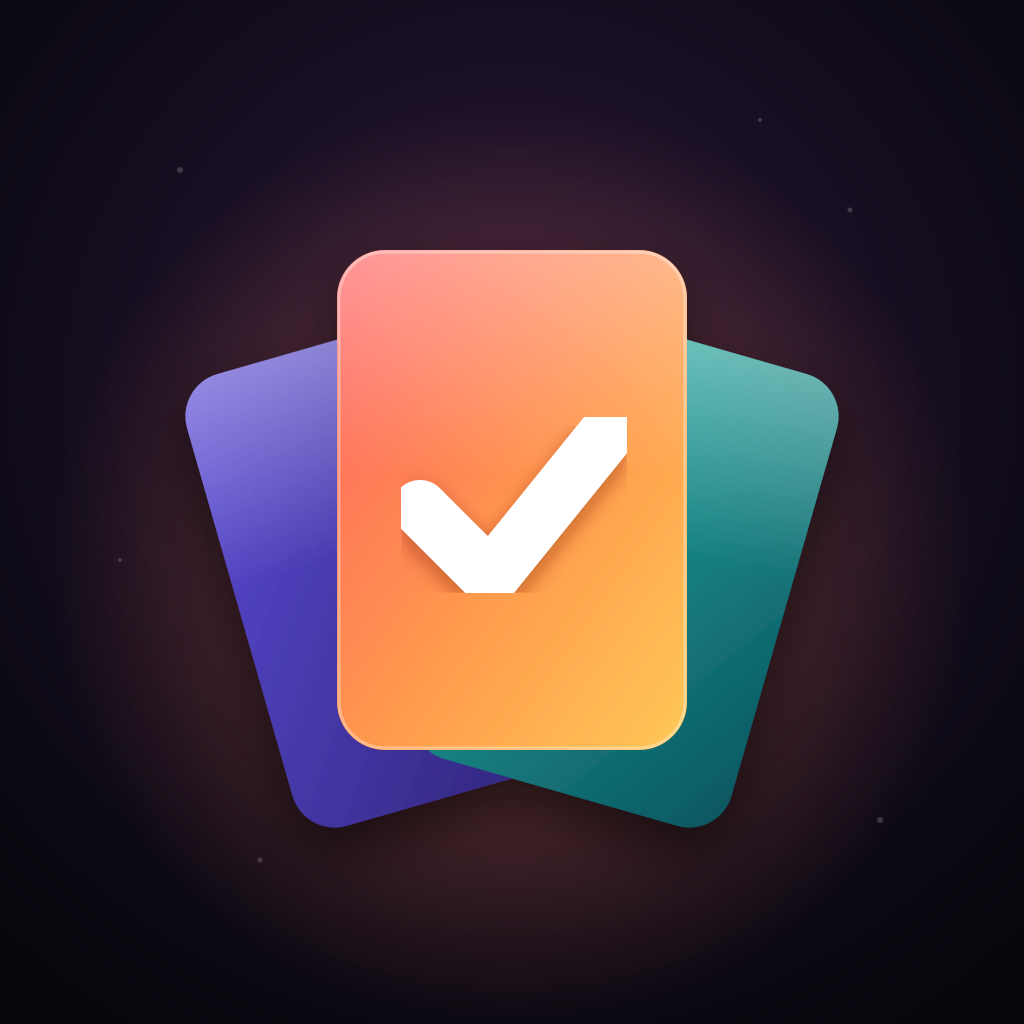
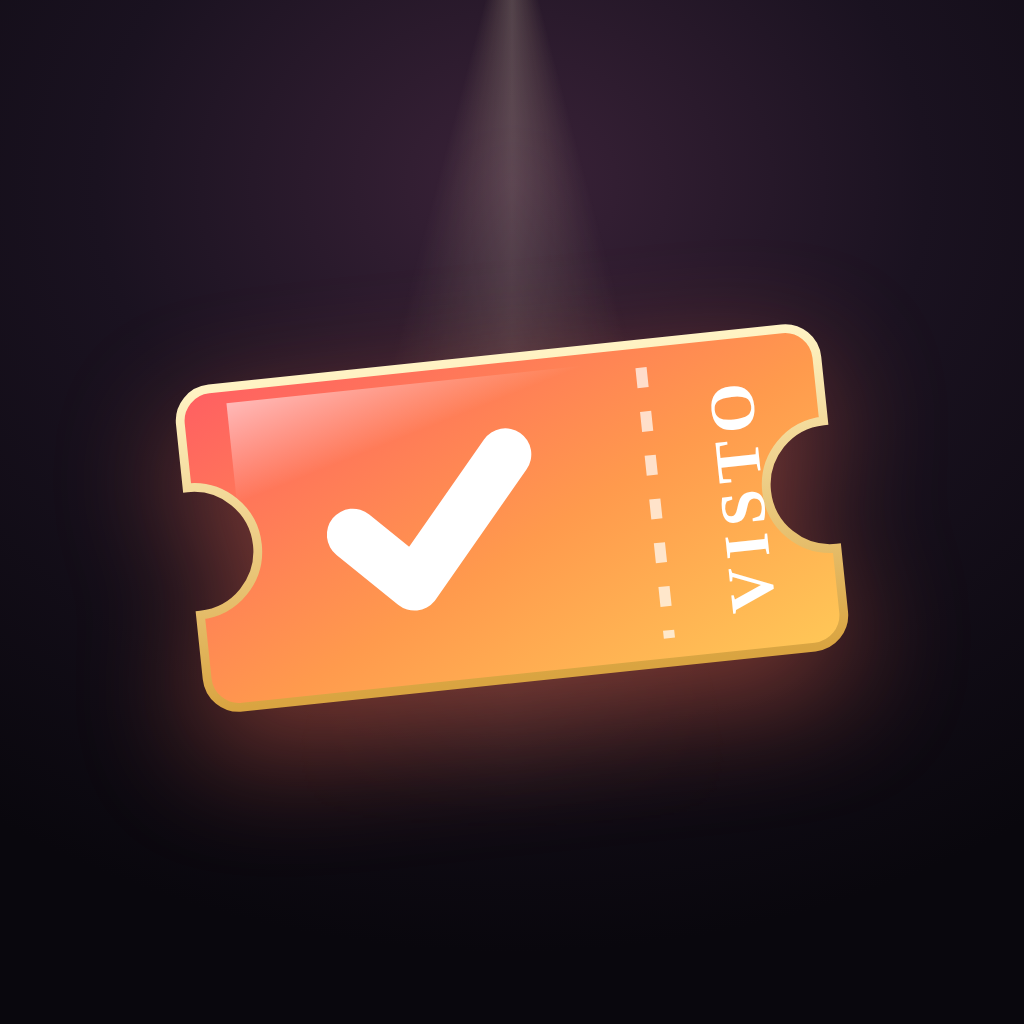
Visto! 2.30: nuova icona con il biglietto e trasloco delle chiavi per reinstallare
Claude-Session: https://claude.ai/code/session_01AV5CBE4EifpkXHisS3UF3v

Changed region(s): [[0.1562, 0.0, 0.8438, 0.9375]]

diff --git a/index.html b/index.html
@@ -10,8 +10,8 @@
 <meta name="apple-mobile-web-app-status-bar-style" content="black-translucent">
 <meta name="apple-mobile-web-app-title" content="Visto!">
 <meta name="theme-color" content="#0a0910">
-<link rel="apple-touch-icon" href="icona-180.png">
-<link rel="icon" href="icona-192.png">
+<link rel="apple-touch-icon" href="icona-180.png?v=2">
+<link rel="icon" href="icona-192.png?v=2">
 <link rel="manifest" href="manifest.json">
 <title>Visto!</title>
 <style>
@@ -652,6 +652,8 @@ html[data-theme=light] .ck{box-shadow:0 0 0 2px #fbf3e9,0 3px 8px rgba(0,0,0,.2)
 .vcerca{flex:none;display:inline-grid;place-items:center;width:28px;height:28px;margin-left:2px;padding:0;border-radius:50%;color:var(--a2);background:rgba(255,154,77,.12);border:1px solid rgba(255,154,77,.4);cursor:pointer}
 .vcerca svg{width:15px;height:15px}.vcerca.on{cursor:default}.vcerca .mmsp{width:13px;height:13px;border-width:2px}
 .vcerca:active{transform:scale(.95)}
+.trasl{margin-top:14px;padding:12px 14px;border-radius:14px;background:var(--card2);border:1px dashed rgba(255,154,77,.45)}
+.trasl b{display:block;font-size:14px}.trasl small{display:block;font-size:12.5px;color:var(--mut);line-height:1.45;margin-top:3px}
 </style>
 </head>
 <body>
@@ -688,7 +690,7 @@ html[data-theme=light] .ck{box-shadow:0 0 0 2px #fbf3e9,0 3px 8px rgba(0,0,0,.2)
 
 <script>
 'use strict';
-const VERSIONE = '2.29';
+const VERSIONE = '2.30';
 const KEY = 'visto-dati', CFG = 'visto-cfg', POSTERS = 'visto-poster';
 const IMG = 'https://image.tmdb.org/t/p/';
 const $ = s => document.querySelector(s);
@@ -1195,6 +1197,8 @@ function renderIo(){
     <div class="lbl">Repository privato dei dati</div><input class="fld" id="ghRepo" value="${esc(C.ghRepo)}" autocapitalize="off" spellcheck="false">
     <div class="lbl">Token</div><input class="fld" id="ghToken" type="password" value="${esc(C.ghToken)}" placeholder="github_pat_…" autocapitalize="off" spellcheck="false">
     <div class="acts"><button class="btn small" data-act="saveGh">Salva e sincronizza</button></div>
+    <div class="trasl"><b>🚚 Trasloco delle chiavi</b><small>Prima di togliere Visto! dalla Home (per esempio per avere l'icona nuova) copia le chiavi; nella nuova installazione incollale qui e ritrovi tutto.</small>
+      <div class="acts" style="margin-top:8px">${C.ghToken ? '<button class="btn small ghost" data-act="copiaChiavi">📋 Copia le chiavi</button>' : ''}<button class="btn small ${C.ghToken ? 'ghost' : ''}" data-act="incollaChiavi">📥 Incolla le chiavi</button></div></div>
   </div>
   <div class="box"><h4>Importa la tua cronologia</h4><p class="plot" style="font-size:14px;margin-bottom:10px">Carica il file "Attività di visione" scaricato da Netflix: serie e film vengono aggiunti già spuntati, con le date vere.</p><div class="acts" style="margin-top:0"><button class="btn small" data-act="netflix">📥 Importa da Netflix</button></div></div>
   ${backupBox()}
@@ -2343,6 +2347,20 @@ const A = {
     C.tmdb = $('#tmdbKey').value.trim(); saveCfg();
     if (!C.tmdb) return toast('Chiave rimossa');
     try { await tmdb('/configuration'); toast('✓ Chiave TMDB valida'); enrichAll().then(() => loadRecs(true)); } catch(e){ toast('La chiave non funziona, controllala'); }
+  },
+  async copiaChiavi(){
+    const codice = 'VISTO1:' + btoa(unescape(encodeURIComponent(JSON.stringify({u:C.ghUser, r:C.ghRepo, t:C.ghToken, k:C.tmdb || D.tmdbKey || ''}))));
+    try { await navigator.clipboard.writeText(codice); toast('📋 Chiavi copiate: ora puoi togliere Visto! dalla Home e riaggiungerlo'); }
+    catch(e){ toast('Non riesco a copiare: riprova'); }
+  },
+  async incollaChiavi(){
+    let t = ''; try { t = (await navigator.clipboard.readText() || '').trim(); } catch(e){}
+    if (!t.startsWith('VISTO1:')) return toast('Negli appunti non ci sono le chiavi di Visto!: copiale prima dalla vecchia app');
+    let c; try { c = JSON.parse(decodeURIComponent(escape(atob(t.slice(7))))); } catch(e){ return toast('Le chiavi copiate non sono leggibili'); }
+    Object.assign(C, {ghUser:c.u, ghRepo:c.r || 'visto-dati', ghToken:c.t, sha:''}); if (c.k) C.tmdb = c.k; saveCfg();
+    toast('Ritrovo i tuoi dati…'); await pull(true); render();
+    toast(C.syncErr ? 'Errore: ' + esc(C.syncErr) : '✅ Bentornato! Hai ritrovato tutto');
+    try { await navigator.clipboard.writeText(''); } catch(e){}
   },
   async saveGh(){
     C.ghUser = $('#ghUser').value.trim(); C.ghRepo = $('#ghRepo').value.trim() || 'visto-dati'; C.ghToken = $('#ghToken').value.trim(); C.sha = ''; saveCfg();
